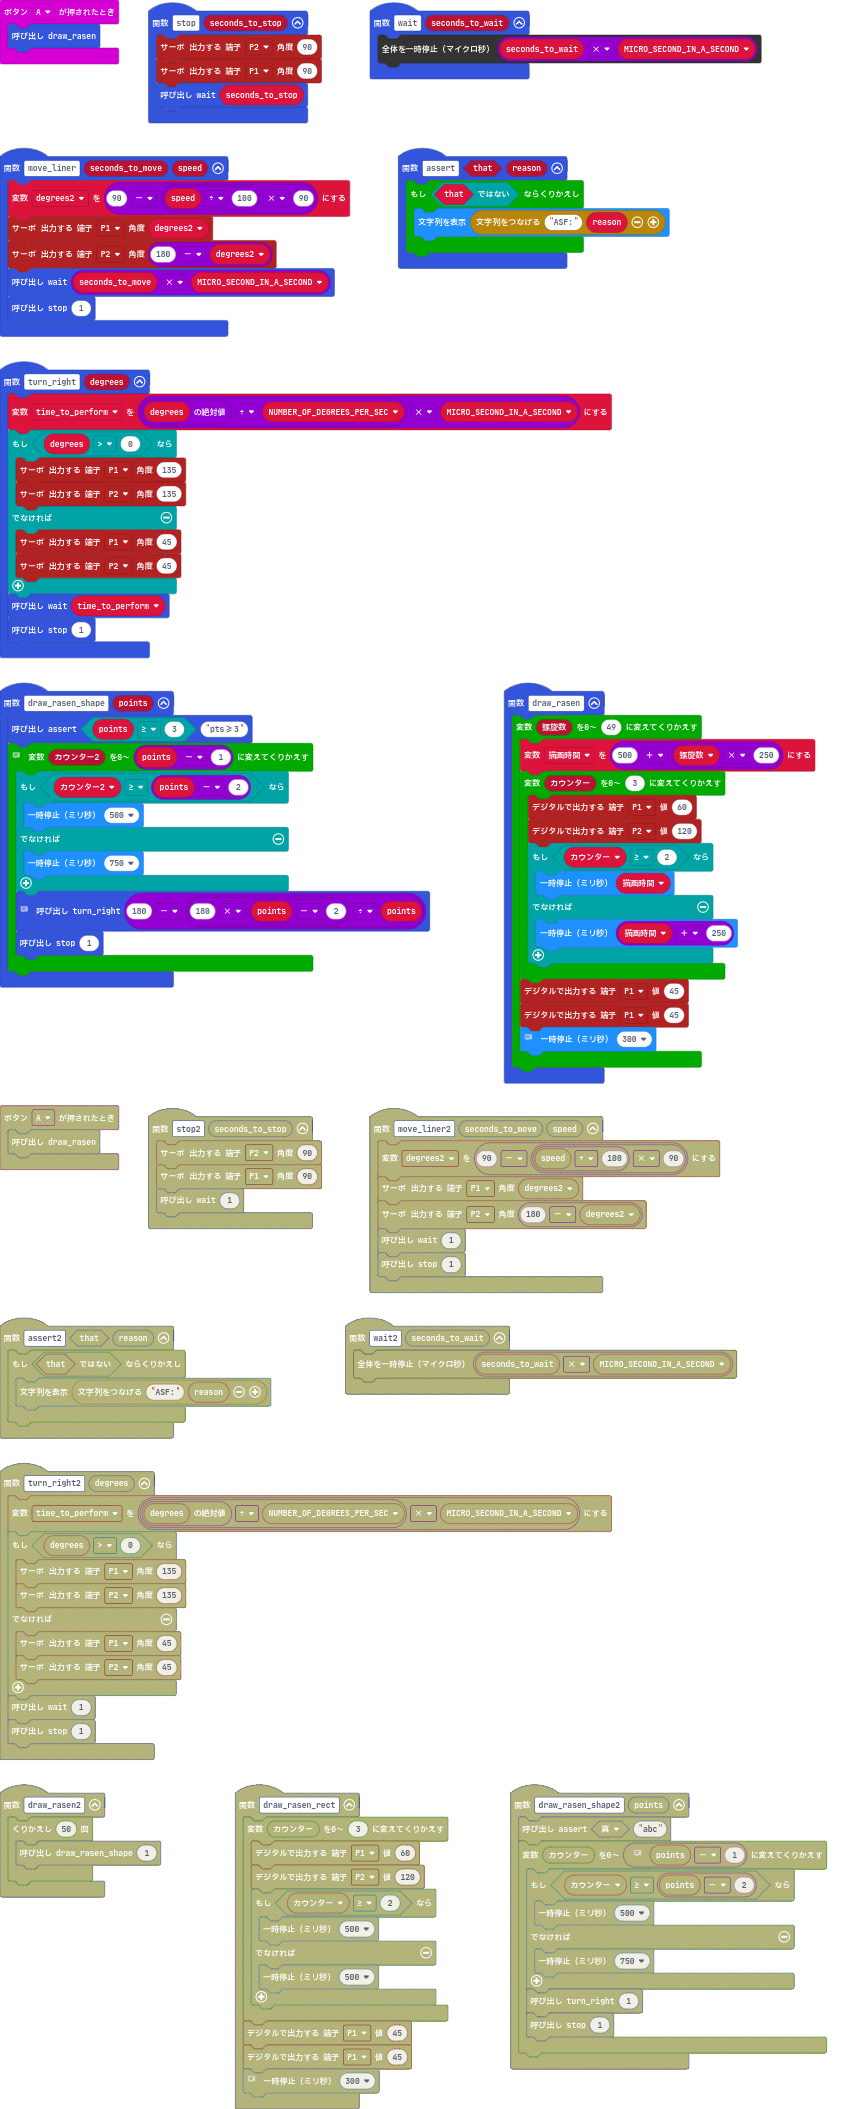
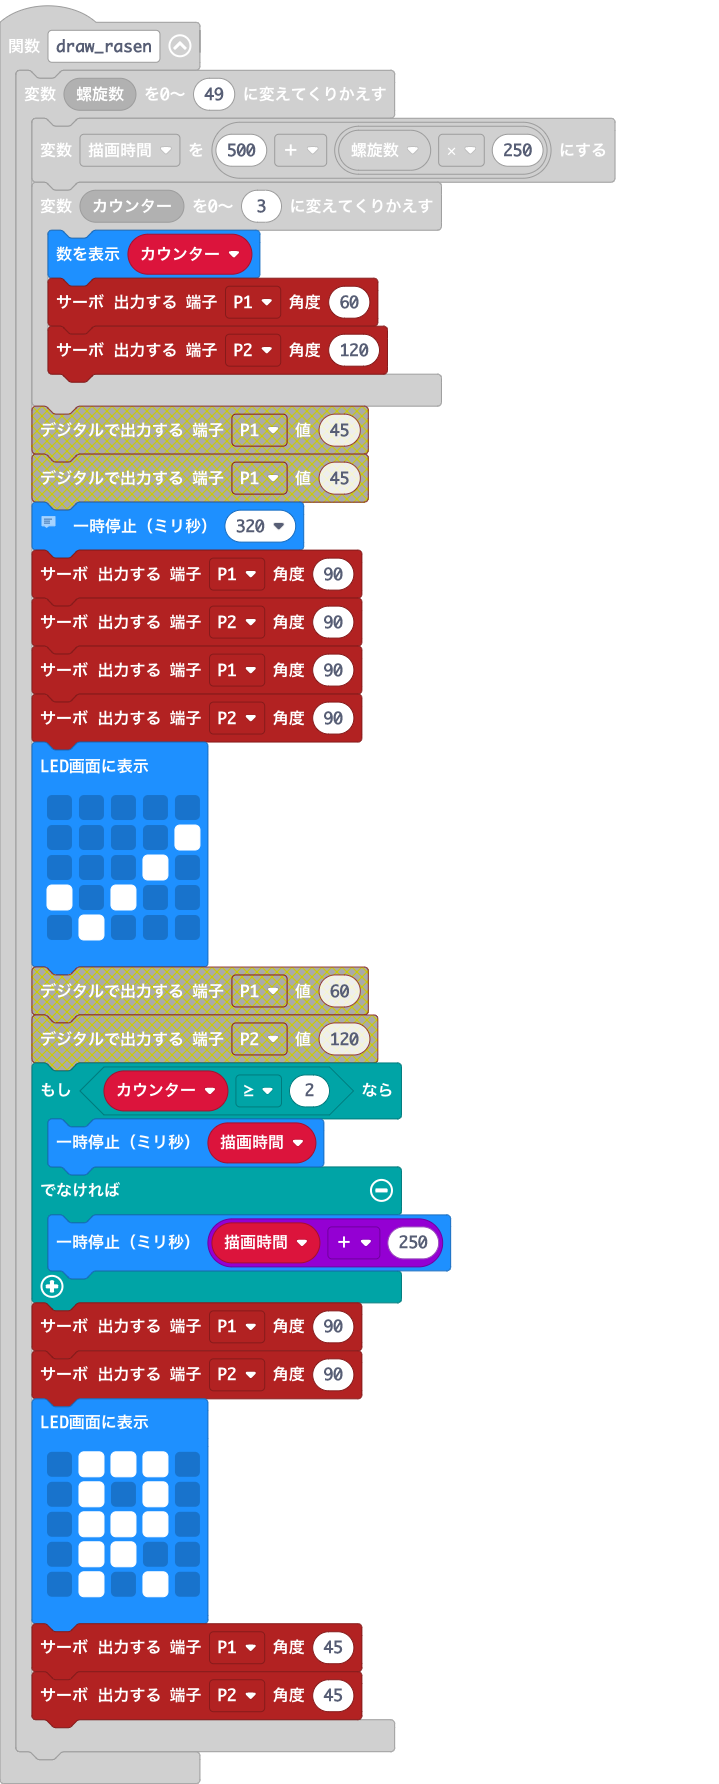
feat: 挙動の改善

diff --git a/main.ts b/main.ts
@@ -25,18 +25,39 @@ function draw_rasen () {
     for (let 螺旋数 = 0; 螺旋数 <= 49; 螺旋数++) {
         描画時間 = 500 + 螺旋数 * 250
         for (let カウンター = 0; カウンター <= 3; カウンター++) {
-            pins.digitalWritePin(DigitalPin.P1, 60)
-            pins.digitalWritePin(DigitalPin.P2, 120)
+            basic.showNumber(カウンター)
+            pins.servoWritePin(AnalogPin.P1, 60)
+            pins.servoWritePin(AnalogPin.P2, 120)
             if (カウンター >= 2) {
                 basic.pause(描画時間)
             } else {
                 basic.pause(描画時間 + 250)
             }
+            pins.servoWritePin(AnalogPin.P1, 90)
+            pins.servoWritePin(AnalogPin.P2, 90)
+            basic.showLeds(`
+                . # # # .
+                . # . # .
+                . # # # .
+                . # # . .
+                . # . # .
+                `)
+            pins.servoWritePin(AnalogPin.P1, 45)
+            pins.servoWritePin(AnalogPin.P2, 45)
+            // 実際は 323.74101.
+            basic.pause(320)
+            pins.servoWritePin(AnalogPin.P1, 90)
+            pins.servoWritePin(AnalogPin.P2, 90)
         }
-        pins.digitalWritePin(DigitalPin.P1, 45)
-        pins.digitalWritePin(DigitalPin.P1, 45)
-        // 実際は 323.74101.
-        basic.pause(300)
+        pins.servoWritePin(AnalogPin.P1, 90)
+        pins.servoWritePin(AnalogPin.P2, 90)
+        basic.showLeds(`
+            . . . . .
+            . . . . #
+            . . . # .
+            # . # . .
+            . # . . .
+            `)
     }
 }
 function draw_rasen_shape (points: number) {
